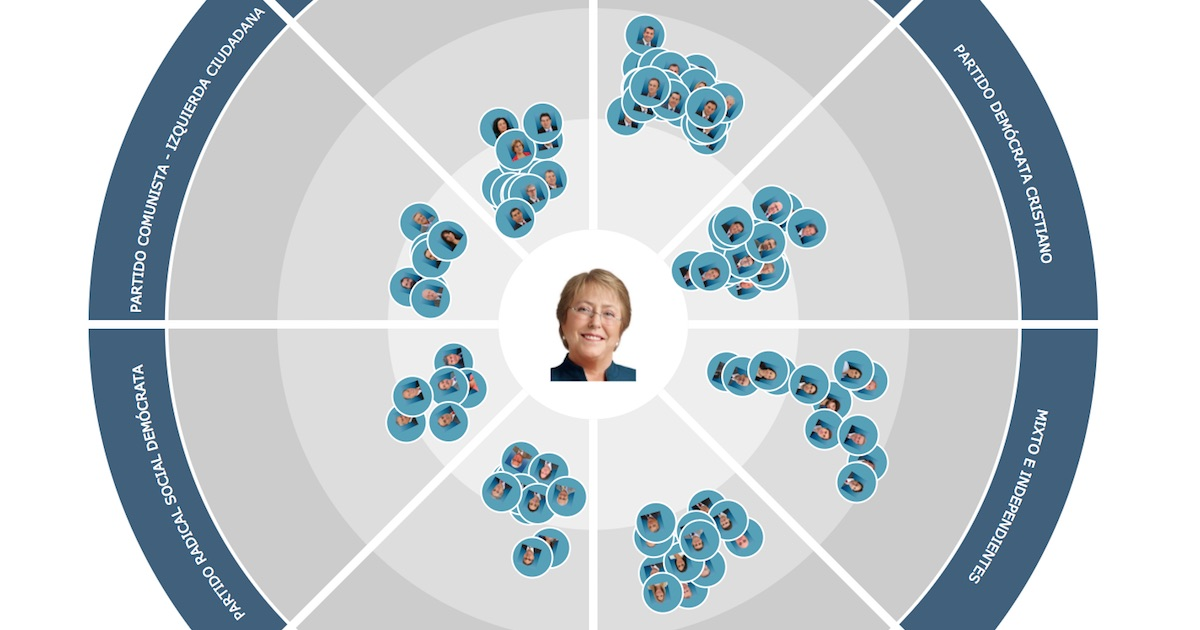
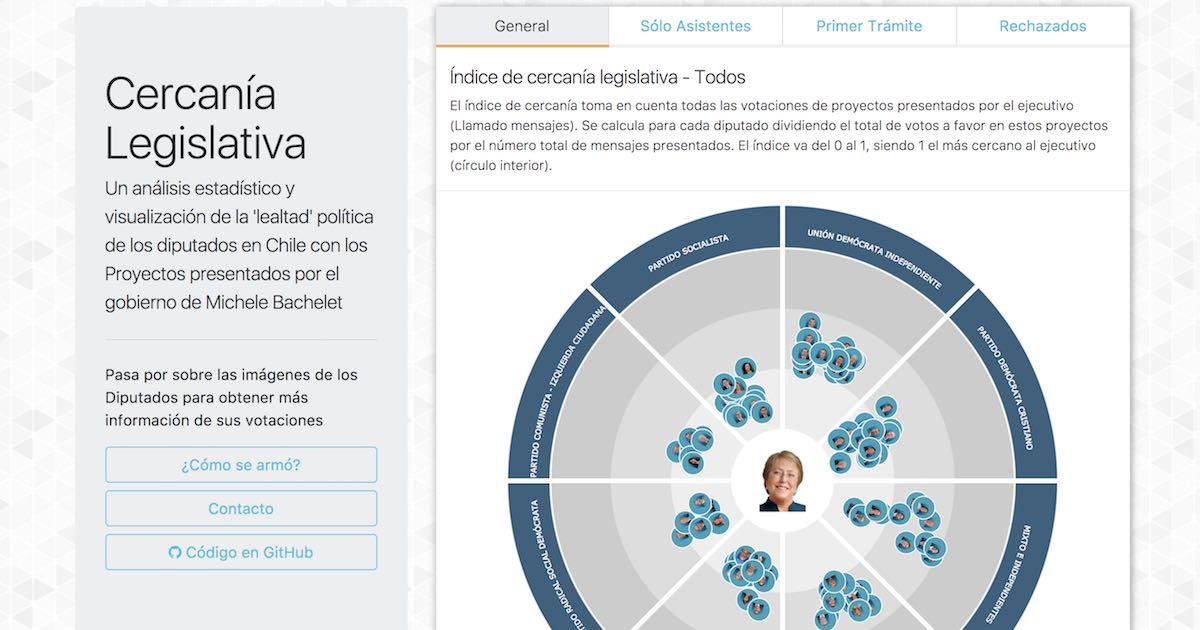
Textos v1.0

diff --git a/www/public/js/main.js b/www/public/js/main.js
@@ -243,8 +243,8 @@ function cambiarTipo(n) {
 	}, {
 		duration: 500,
 		complete: function() {
-			$('#expl-container h1').text(btn.title);
-			$('#expl-container p').text(btn.body);	
+			$('#expl-container h1').html(btn.title);
+			$('#expl-container p').html(btn.body);	
 			$('#buttons-container a.nav-link').removeClass('active');
 			ths.addClass('active');					
 		}
@@ -256,28 +256,28 @@ var contents = [
 		n: 1,
 		button: "General",
 		title: "Índice de cercanía legislativa - Todos",
-		body: "Lorem ipsum dolor sit amet, consectetur adipiscing elit, sed do eiusmod tempor incididunt ut labore et dolore magna aliqua. Ut enim ad minim veniam, quis nostrud exercitation ullamco laboris nisi ut aliquip ex ea commodo consequat. Duis aute irure dolor in reprehenderit in voluptate velit esse cillum dolore eu fugiat nulla pariatur. Excepteur sint occaecat cupidatat non proident, sunt in culpa qui officia deserunt mollit anim id est laborum",
+		body: "El índice de cercanía toma en cuenta todas las votaciones de proyectos presentados por el ejecutivo (Llamado mensajes). Se calcula para cada diputado dividiendo el total de votos a favor en estos proyectos por el número total de mensajes presentados. El índice va del 0 al 1, siendo 1 el más cercano al ejecutivo (círculo interior).",
 		action: mostrarLealtadSinAsistencia
 	},
 	{
 		n: 2,
 		button: "Sólo Asistentes",
 		title: "Tomando en cuenta sólo las sesiones en la que asistieron",
-		body: "Lorem ipsum dolor sit amet, consectetur adipiscing elit, sed do eiusmod tempor incididunt ut labore et dolore magna aliqua. Ut enim ad minim veniam, quis nostrud exercitation ullamco laboris nisi ut aliquip ex ea commodo consequat. Duis aute irure dolor in reprehenderit in voluptate velit esse cillum dolore eu fugiat nulla pariatur. Excepteur sint occaecat cupidatat non proident, sunt in culpa qui officia deserunt mollit anim id est laborum",
+		body: "El índice de sólo asistentes se calcula igual que el índice anterior pero esta vez tomando en cuenta sólo las votaciones en donde estaba presente cada diputado. El índice va del 0 al 1, siendo 1 el más cercano al ejecutivo (círculo interior).<br><br>",
 		action: mostrarLealtadConAsistencia
 	},
 	{
 		n: 3,
 		button: "Primer Trámite",
 		title: "Tomando en cuenta sólo Primer Trámite - Primer Informe",
-		body: "Lorem ipsum dolor sit amet, consectetur adipiscing elit, sed do eiusmod tempor incididunt ut labore et dolore magna aliqua. Ut enim ad minim veniam, quis nostrud exercitation ullamco laboris nisi ut aliquip ex ea commodo consequat. Duis aute irure dolor in reprehenderit in voluptate velit esse cillum dolore eu fugiat nulla pariatur. Excepteur sint occaecat cupidatat non proident, sunt in culpa qui officia deserunt mollit anim id est laborum",
+		body: "Este índice se calcula filtrando sólo los mensaje tipificados como Primer Trámite - Primer Informe para dar cuenta el recibimiento del proyecto por los distintos diputados y bloques. El índice va del 0 al 1, siendo 1 el más cercano al ejecutivo (círculo interior).<br><br>",
 		action: mostrarLealtadPrimerTramite
 	},
 	{
 		n: 4,
 		button: "Rechazados",
 		title: "Tomando en cuenta sólo los proyectos finalmente rechazados",
-		body: "Lorem ipsum dolor sit amet, consectetur adipiscing elit, sed do eiusmod tempor incididunt ut labore et dolore magna aliqua. Ut enim ad minim veniam, quis nostrud exercitation ullamco laboris nisi ut aliquip ex ea commodo consequat. Duis aute irure dolor in reprehenderit in voluptate velit esse cillum dolore eu fugiat nulla pariatur. Excepteur sint occaecat cupidatat non proident, sunt in culpa qui officia deserunt mollit anim id est laborum",
+		body: "Como lo dice el título, este índice se calcula tomando en cuenta sólo los proyectos finalmente rechazados. El índice va del 0 al 1, siendo 1 el más cercano al ejecutivo (círculo interior).<br><br>",
 		action: mostrarLealtadSoloReprobados
 	}
 ];
@@ -286,8 +286,8 @@ for (var i = 0; i < contents.length; i++) {
 	btn = contents[i];
 	$('#buttons-container').append('<li class="nav-item"><a id="btn_' + btn.n + '" data-n="' + btn.n + '" class="nav-link ' + (i==0 ? 'active' : '') + '" href="javascript:">' + btn.button + '</a></li>');
 }
-$('#expl-container h1').text(contents[0].title);
-$('#expl-container p').text(contents[0].body);
+$('#expl-container h1').html(contents[0].title);
+$('#expl-container p').html(contents[0].body);
 
 var automatico = setInterval(cambiarAuto, 5000);
 var counter = 1;

diff --git a/www/index.html b/www/index.html
@@ -8,22 +8,22 @@
 		<link rel="shortcut icon" href="favicon.ico" type="image/x-icon">
 		<title>Cercanía Legislativa</title>
 		<!-- Search Engine -->
-		<meta name="description" content="DESCRIPCION">
+		<meta name="description" content="Un análisis estadístico y visualización de la 'lealtad' política de los diputados en Chile con los Proyectos presentados por el gobierno de Michelle Bachelet">
 		<meta name="image" content="http://cercanialegislativa.cl.s3-website-us-west-1.amazonaws.com/public/social/site_image.jpg">
 		<!-- Schema.org for Google -->
 		<meta itemprop="name" content="Cercanía Legislativa">
-		<meta itemprop="description" content="DESCRIPCION">
+		<meta itemprop="description" content="Un análisis estadístico y visualización de la 'lealtad' política de los diputados en Chile con los Proyectos presentados por el gobierno de Michelle Bachelet">
 		<meta itemprop="image" content="http://cercanialegislativa.cl.s3-website-us-west-1.amazonaws.com/public/social/site_image.jpg">
 		<!-- Twitter -->
 		<meta name="twitter:card" content="summary">
 		<meta name="twitter:title" content="Cercanía Legislativa">
-		<meta name="twitter:description" content="DESCRIPCION">
+		<meta name="twitter:description" content="Un análisis estadístico y visualización de la 'lealtad' política de los diputados en Chile con los Proyectos presentados por el gobierno de Michele Bachelet">
 		<meta name="twitter:site" content="@Felipe_Ares">
 		<meta name="twitter:creator" content="@Felipe_Ares">
 		<meta name="twitter:image:src" content="http://cercanialegislativa.cl.s3-website-us-west-1.amazonaws.com/public/social/twitter1024x512.jpg">
 		<!-- Open Graph general (Facebook, Pinterest & Google+) -->
 		<meta property="og:title" content="Cercanía Legislativa">
-		<meta property="og:description" content="DESCRIPCION">
+		<meta property="og:description" content="Un análisis estadístico y visualización de la 'lealtad' política de los diputados en Chile con los Proyectos presentados por el gobierno de Michele Bachelet">
 		<meta property="og:image" content="http://cercanialegislativa.cl.s3-website-us-west-1.amazonaws.com/public/social/og1200x630.jpg">
 		<meta property="og:url" content="http://cercanialegislativa.cl">
 		<meta property="og:site_name" content="Cercanía Legislativa">
@@ -57,14 +57,16 @@
 				<div class="col-lg-4">
 					<div class="jumbotron" id="intro">
 					  <h1 class="display-3">Cercanía Legislativa</h1>
-					  <p class="lead">Lorem ipsum dolor sit amet, consectetur adipiscing elit, sed do eiusmod tempor incididunt ut labore et dolore magna aliqua.</p>
+					  <p class="lead">Un análisis estadístico y visualización de la "lealtad" política de los diputados en Chile con los Proyectos presentados por el gobierno de Michelle Bachelet</p>
 					  <hr class="my-4">
-					  <p>Excepteur sint occaecat cupidatat non proident, sunt in culpa qui officia deserunt mollit anim id est laborum.</p>
+					  <p>Pasa por sobre las imágenes de los Diputados para obtener más información de sus votaciones</p>
 					  <p class="lead">
-
+					  
+					  <!-- 
 					  <a href="javascript:" data-toggle="modal" data-target="#comoModal" class="btn btn-outline-info btn-block" role="button">
 						  ¿Cómo se armó?
 					  </a>
+					  -->
 					  <a href="javascript:" data-toggle="modal" data-target="#contactoModal" class="btn btn-outline-info btn-block" role="button">
 						  Contacto
 					  </a>
@@ -110,7 +112,7 @@
   						  </button>
   					  </div>
   					  <div class="modal-body">
-  						  <p>Lorem ipsum dolor sit amet, consectetur adipiscing elit, sed do eiusmod tempor incididunt ut labore et dolore magna aliqua. Ut enim ad minim veniam, quis nostrud exercitation ullamco laboris nisi ut aliquip ex ea commodo consequat. Duis aute irure dolor in reprehenderit in voluptate velit esse cillum dolore eu fugiat nulla pariatur. Excepteur sint occaecat cupidatat non proident, sunt in culpa qui officia deserunt mollit anim id est laborum</p>
+  						  <p>¿Te interesa saber más de cómo se construyó el gráfico o necesitas la base de datos? No dudes en contactarnos al correo <a href="#">felipeares.work@gmail.com</a></p>
   					  </div>
   				  </div>
   			  </div>

diff --git a/README.md b/README.md
@@ -1,3 +1,3 @@
 # Análisis de lealtad política al Gobierno de Michele Bachelet
 
-En este repositorio encontrarás los datos "crudos", los srcipts de análisis y pre-procesamiento de datos y el código de la visualización realizada en el sitio <a href="#">http://lealtadpolitica.cl</a> (En construcción, el nombre podría cambiar).
+En este repositorio encontrarás los datos "crudos", los srcipts de análisis y pre-procesamiento de datos y el código de la visualización realizada en el sitio <a href="http://cercanialegislativa.cl.s3-website-us-west-1.amazonaws.com/">http://lealtadpolitica.cl</a> (En construcción, el nombre podría cambiar).
